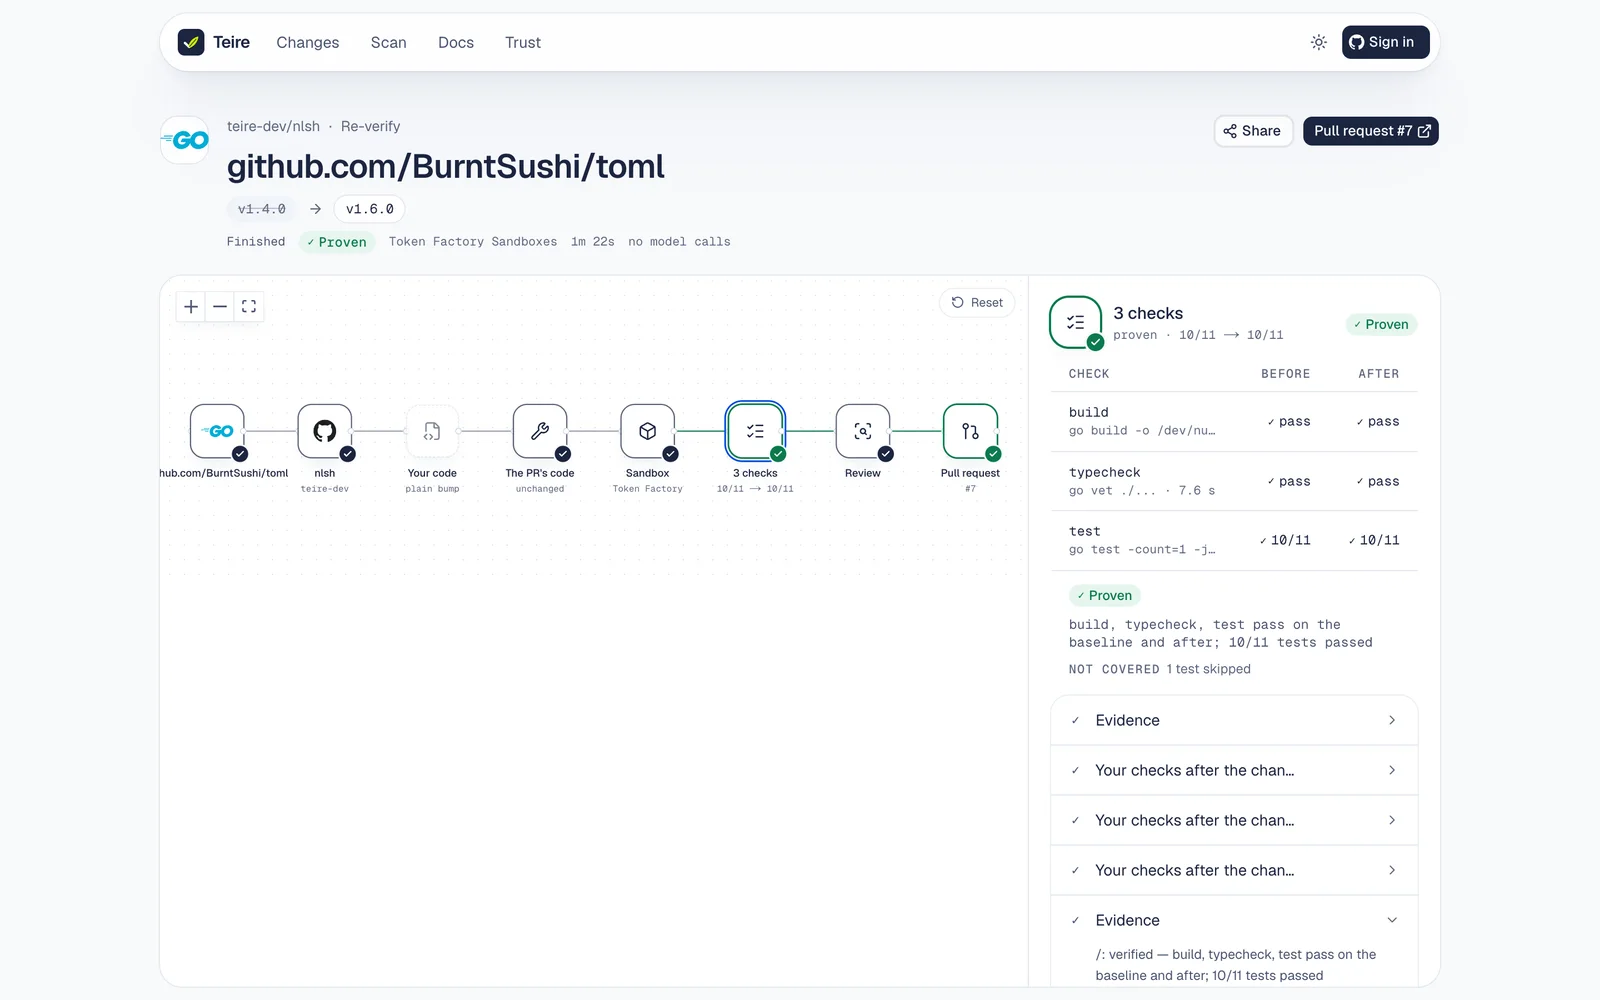
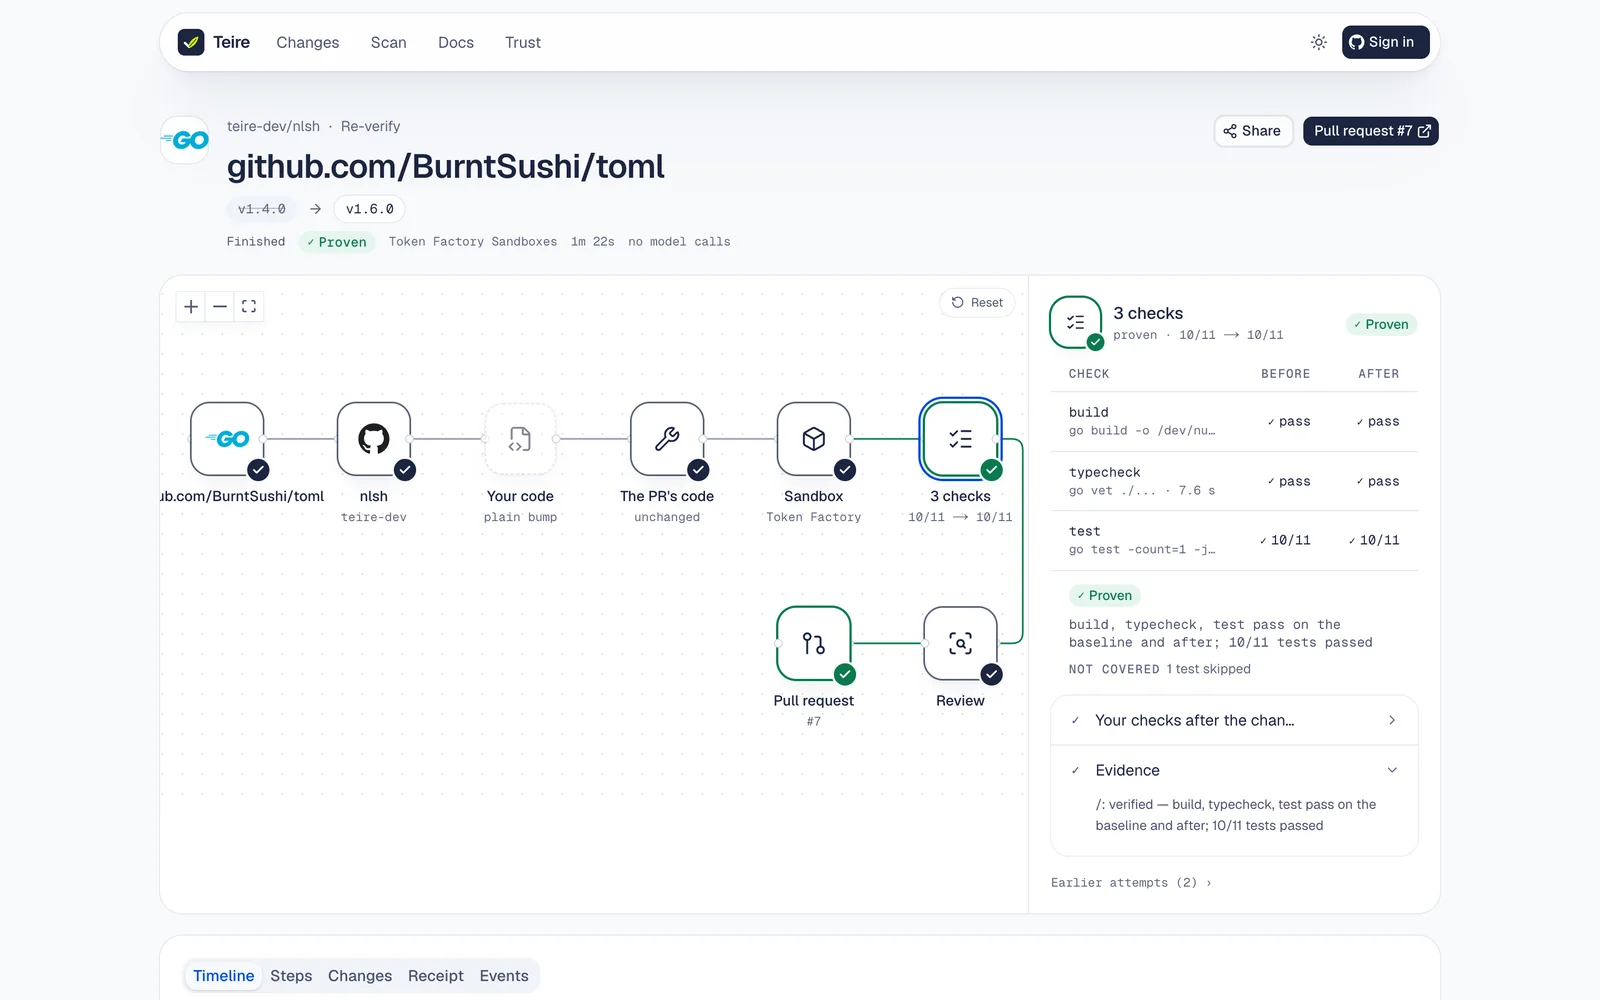
Run canvas: labels keep their room at the edges and wrap at slashes; the root folder named in words; run captures on the new canvas

diff --git a/apps/web/components/flow/tile.tsx b/apps/web/components/flow/tile.tsx
@@ -17,6 +17,7 @@ import {
   Zap,
 } from "lucide-react";
 import Link from "next/link";
+import { Fragment } from "react";
 import { BrandLogo } from "@/components/brand-logo";
 import { FLOW_STATE_LABEL, type FlowEntity, type FlowState, type FlowTile } from "@/lib/flow/model";
 import { cn } from "@/lib/utils";
@@ -148,6 +149,23 @@ export function TileSquare({
 }
 
 /** The words under (or beside) a tile: its label, its figure, and a caption when live, amber or red. */
+/** A path-like label (`github.com/BurntSushi/toml`) may wrap after each slash rather than run out of its box. */
+function breakable(label: string) {
+  if (!label.includes("/")) return label;
+  const parts = label.split("/");
+  return parts.map((part, i) => (
+    // biome-ignore lint/suspicious/noArrayIndexKey: the label's own segments, in order
+    <Fragment key={i}>
+      {part}
+      {i < parts.length - 1 ? (
+        <>
+          /<wbr />
+        </>
+      ) : null}
+    </Fragment>
+  ));
+}
+
 export function TileLabel({
   tile,
   size = "md",
@@ -162,12 +180,12 @@ export function TileLabel({
       <span
         data-flow
         className={cn(
-          "line-clamp-2 font-medium leading-tight text-ink",
+          "line-clamp-2 font-medium leading-tight text-ink [overflow-wrap:anywhere]",
           size === "sm" ? "text-xs" : "text-[13px]",
           tile.state === "pending" && "text-ink-2",
         )}
       >
-        {tile.label}
+        {breakable(tile.label)}
       </span>
       {tile.meta ? (
         <span data-flow className="font-mono text-[11px] leading-tight text-ink-3">

diff --git a/packages/engine/src/fix/run.ts b/packages/engine/src/fix/run.ts
@@ -449,9 +449,11 @@ export async function verifyProjects(input: {
   const results: OtherProject[] = [];
   const check = async ({ project, i }: (typeof queue)[number]) => {
     const name = project.root === "." ? "/" : project.root;
+    // The event lines are read on the run page, where "/" reads as punctuation.
+    const said = project.root === "." ? "the root folder" : project.root;
     input.onEvent?.({
       step: "verify",
-      detail: `checking ${name} (${project.ecosystem})${input.why ? `, ${input.why}` : ""}`,
+      detail: `checking ${said} (${project.ecosystem})${input.why ? `, ${input.why}` : ""}`,
     });
     // Each command's line as it finishes ("baseline: test exit 0 in 2214 ms"), as the lead's are (U2 review).
     const prefix = input.leadFirst && i === 0 ? "" : `[${name}] `;
@@ -495,13 +497,13 @@ export async function verifyProjects(input: {
     }
     if (!v) {
       const reason = `couldn't be checked (${forGitHub(failure, 200)})`;
-      input.onEvent?.({ step: "verify", detail: `${name}: ${reason}` });
+      input.onEvent?.({ step: "verify", detail: `${said}: ${reason}` });
       results[i] = unchecked(project.root, project.ecosystem, reason);
       return;
     }
     input.onEvent?.({
       step: "verify",
-      detail: `${name}: ${v.evidence.kind.replace(/_/g, " ")} — ${v.evidence.reasons.join("; ")}`,
+      detail: `${said}: ${v.evidence.kind.replace(/_/g, " ")} — ${v.evidence.reasons.join("; ")}`,
     });
     results[i] = {
       root: project.root,

diff --git a/apps/web/components/run/run-canvas.tsx b/apps/web/components/run/run-canvas.tsx
@@ -33,8 +33,13 @@ type TileNodeT = Node<TileData, "tile">;
 const GAP = 132;
 const ROW = 184;
 const SIZE = 64;
-/** Room the fitted view keeps around the tiles, in pixels: what a column count is measured against. */
-const SIDE = 56;
+/**
+ * Room the fitted view keeps around the tiles, in pixels: what a column count is measured against.
+ * A label is 144px under a 64px tile, so each side needs its 40px overhang and a little air, or the
+ * first and last labels are cut at the canvas edge (`github.com/BurntSushi/toml`).
+ */
+const EDGE = 48;
+const SIDE = EDGE * 2;
 
 function TileNode({ id, data }: NodeProps<TileNodeT>) {
   const { tile, selected, onSelect, flip } = data;
@@ -222,7 +227,10 @@ export function RunCanvas({
         preventScrolling={false}
         panOnScroll={false}
         fitView
-        fitViewOptions={{ padding: { top: "48px", bottom: "64px", left: "28px", right: "28px" }, maxZoom: 1 }}
+        fitViewOptions={{
+          padding: { top: "48px", bottom: "64px", left: `${EDGE}px`, right: `${EDGE}px` },
+          maxZoom: 1,
+        }}
         minZoom={0.4}
         proOptions={{ hideAttribution: true }}
         maxZoom={1.6}

diff --git a/apps/web/lib/activity.ts b/apps/web/lib/activity.ts
@@ -135,9 +135,13 @@ export function callSaid(name: string, input: Record<string, unknown>): string {
   }
 }
 
+/** Runs before the engine said "the root folder" named it "/" ("/: verified — …", "checking / (go)"). */
+const rootFolder = (line: string) =>
+  line.replace(/^\/: /, "the root folder: ").replace(/^checking \/ \(/, "checking the root folder (");
+
 function lineOf(e: Event): string | null {
   const p = (e.payload ?? {}) as Record<string, unknown>;
-  if (typeof p.detail === "string") return p.detail;
+  if (typeof p.detail === "string") return rootFolder(p.detail);
   if (typeof p.reason === "string") return p.reason;
   if (e.step === "resolver" && e.type === "started")
     return `${p.dependency} with ${p.packageManager} across ${(p.roots as string[] | undefined)?.length ?? 1} root${(p.roots as string[] | undefined)?.length === 1 ? "" : "s"}`;
